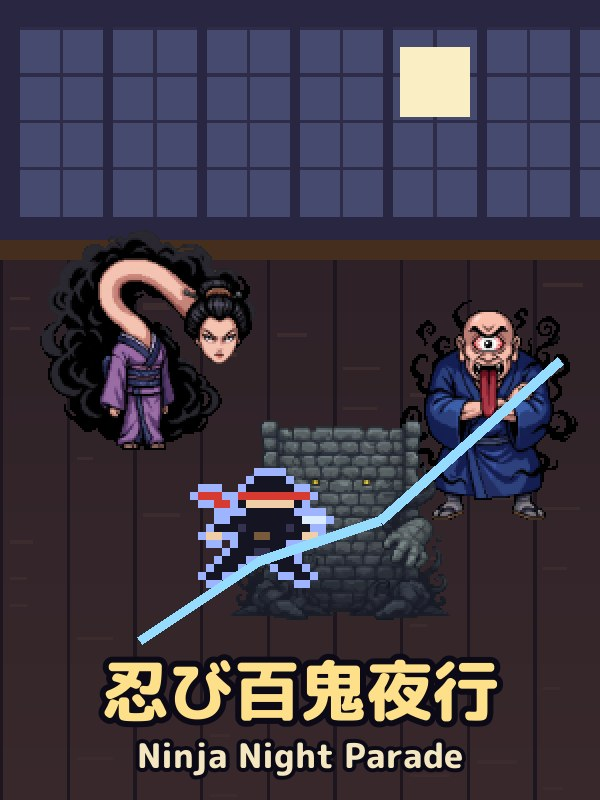
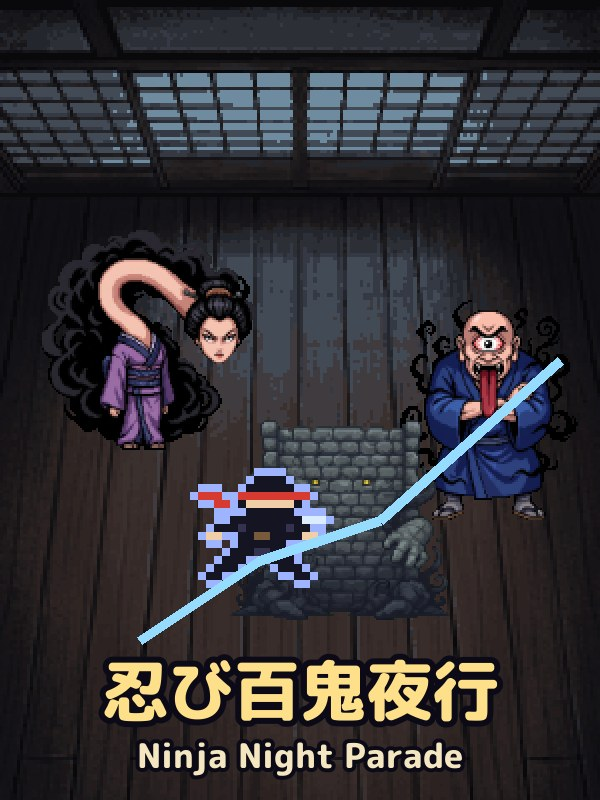
版7：武家屋敷の背景

diff --git a/src/scenes/PlayScene.js b/src/scenes/PlayScene.js
@@ -1,18 +1,18 @@
 // 遊ぶ画面（key 'play'・scene.start('play', {index})）
 // 押す＝忍者の場所から線を引き始める／動かす＝線を伸ばす（墨が切れたら先が赤く光って止まる）／離す＝resolveDash を1回だけ呼び、結果を絵にする
 // 線を引いている間は敵の時間が DRAW_SLOW 倍。指は1本だけ（線の途中の2本目は無視＝Review Focus 3）
-import { t } from '../i18n/i18n.js?v=6';
-import { textStyle, buttonStyle, GOLD } from '../ui/text.js?v=6';
-import { crisp } from '../ui/pixel.js?v=6';
-import { play as sfx } from '../ui/sfx.js?v=6';
-import { W, H, DASH_SPEED, HITSTOP, DRAW_SLOW } from '../config.js?v=6';
-import { startStroke, addPoint, isSwipe, pointAt } from '../core/path.js?v=6';
-import { resolveDash, foePos, starsFor } from '../core/dash.js?v=6';
-import { loadSave, writeSave, recordClear, learnKaton, markSeen, recordScore, totalBest } from '../core/save.js?v=6';
-import { killPoints, BOSS_HIT, BOSS_KILL, timeBonus, roomScore } from '../core/score.js?v=6';
-import { STAGES, katonFor } from '../data/stages.js?v=6';
-import { FOES, foeFlags, needsJutsu, badgeMarks } from '../data/foes.js?v=6';
-import { platformStore, sendScore } from '../platform.js?v=6';
+import { t } from '../i18n/i18n.js?v=7';
+import { textStyle, buttonStyle, GOLD } from '../ui/text.js?v=7';
+import { crisp } from '../ui/pixel.js?v=7';
+import { play as sfx } from '../ui/sfx.js?v=7';
+import { W, H, DASH_SPEED, HITSTOP, DRAW_SLOW } from '../config.js?v=7';
+import { startStroke, addPoint, isSwipe, pointAt } from '../core/path.js?v=7';
+import { resolveDash, foePos, starsFor } from '../core/dash.js?v=7';
+import { loadSave, writeSave, recordClear, learnKaton, markSeen, recordScore, totalBest } from '../core/save.js?v=7';
+import { killPoints, BOSS_HIT, BOSS_KILL, timeBonus, roomScore } from '../core/score.js?v=7';
+import { STAGES, katonFor } from '../data/stages.js?v=7';
+import { FOES, foeFlags, needsJutsu, badgeMarks } from '../data/foes.js?v=7';
+import { platformStore, sendScore } from '../platform.js?v=7';
 
 const LINE = 0x96dcff, RED = 0xe0503c;
 

diff --git a/src/main.js b/src/main.js
@@ -1,12 +1,12 @@
 // src/main.js — 言葉と記録を決めて Phaser を始める（相撲ゲームの main.js と同じ分かれ道・同意書と♪の札は無い）
-import { TitleScene } from './scenes/TitleScene.js?v=6';
-import { PlayScene } from './scenes/PlayScene.js?v=6';
-import { MapScene } from './scenes/MapScene.js?v=6';
-import { CollectionScene } from './scenes/CollectionScene.js?v=6';
-import { ClearScene } from './scenes/ClearScene.js?v=6';
-import { initLang, setLang } from './i18n/i18n.js?v=6';
-import { isPlayables, initPlatform, playablesLang, platformStore, onYtPause } from './platform.js?v=6';
-import { W, H } from './config.js?v=6';
+import { TitleScene } from './scenes/TitleScene.js?v=7';
+import { PlayScene } from './scenes/PlayScene.js?v=7';
+import { MapScene } from './scenes/MapScene.js?v=7';
+import { CollectionScene } from './scenes/CollectionScene.js?v=7';
+import { ClearScene } from './scenes/ClearScene.js?v=7';
+import { initLang, setLang } from './i18n/i18n.js?v=7';
+import { isPlayables, initPlatform, playablesLang, platformStore, onYtPause } from './platform.js?v=7';
+import { W, H } from './config.js?v=7';
 
 export const SCENES = [TitleScene, MapScene, PlayScene, CollectionScene, ClearScene];
 

diff --git a/src/scenes/ClearScene.js b/src/scenes/ClearScene.js
@@ -1,12 +1,12 @@
 // 武家屋敷のクリア（key 'clear'）：星の合計・点数の合計・「次の場所は作っている途中」（Playables の決まり＝続きが無いと分かる）
-import { t } from '../i18n/i18n.js?v=6';
-import { textStyle, buttonStyle, GOLD } from '../ui/text.js?v=6';
-import { crisp } from '../ui/pixel.js?v=6';
-import { W, H } from '../config.js?v=6';
-import { loadSave, clearSummary } from '../core/save.js?v=6';
-import { STAGES } from '../data/stages.js?v=6';
-import { platformStore } from '../platform.js?v=6';
-import { play as sfx } from '../ui/sfx.js?v=6';
+import { t } from '../i18n/i18n.js?v=7';
+import { textStyle, buttonStyle, GOLD } from '../ui/text.js?v=7';
+import { crisp } from '../ui/pixel.js?v=7';
+import { W, H } from '../config.js?v=7';
+import { loadSave, clearSummary } from '../core/save.js?v=7';
+import { STAGES } from '../data/stages.js?v=7';
+import { platformStore } from '../platform.js?v=7';
+import { play as sfx } from '../ui/sfx.js?v=7';
 
 export class ClearScene extends Phaser.Scene {
   constructor() { super('clear'); }

diff --git a/src/scenes/CollectionScene.js b/src/scenes/CollectionScene.js
@@ -1,12 +1,12 @@
 // 図鑑（key 'collection'）：2列×5段の札・押すと説明・まだ出会っていない物は「？」
-import { t } from '../i18n/i18n.js?v=6';
-import { textStyle, buttonStyle, GOLD } from '../ui/text.js?v=6';
-import { crisp } from '../ui/pixel.js?v=6';
-import { W, H } from '../config.js?v=6';
-import { loadSave } from '../core/save.js?v=6';
-import { COLLECTION, visible } from '../data/collection.js?v=6';
-import { FOES } from '../data/foes.js?v=6';
-import { platformStore } from '../platform.js?v=6';
+import { t } from '../i18n/i18n.js?v=7';
+import { textStyle, buttonStyle, GOLD } from '../ui/text.js?v=7';
+import { crisp } from '../ui/pixel.js?v=7';
+import { W, H } from '../config.js?v=7';
+import { loadSave } from '../core/save.js?v=7';
+import { COLLECTION, visible } from '../data/collection.js?v=7';
+import { FOES } from '../data/foes.js?v=7';
+import { platformStore } from '../platform.js?v=7';
 
 export class CollectionScene extends Phaser.Scene {
   constructor() { super('collection'); }

diff --git a/src/scenes/MapScene.js b/src/scenes/MapScene.js
@@ -1,11 +1,11 @@
 // 間を選ぶ（key 'map'）：武家屋敷の10の間を2列×5段・星・開いていない間は鍵・図鑑へ
-import { t } from '../i18n/i18n.js?v=6';
-import { textStyle, buttonStyle, GOLD } from '../ui/text.js?v=6';
-import { crisp } from '../ui/pixel.js?v=6';
-import { W } from '../config.js?v=6';
-import { loadSave, isOpen } from '../core/save.js?v=6';
-import { STAGES } from '../data/stages.js?v=6';
-import { platformStore } from '../platform.js?v=6';
+import { t } from '../i18n/i18n.js?v=7';
+import { textStyle, buttonStyle, GOLD } from '../ui/text.js?v=7';
+import { crisp } from '../ui/pixel.js?v=7';
+import { W } from '../config.js?v=7';
+import { loadSave, isOpen } from '../core/save.js?v=7';
+import { STAGES } from '../data/stages.js?v=7';
+import { platformStore } from '../platform.js?v=7';
 
 export class MapScene extends Phaser.Scene {
   constructor() { super('map'); }

diff --git a/src/core/dash.js b/src/core/dash.js
@@ -1,9 +1,9 @@
 // 駆け抜けの結果（画面から離した純粋な関数・tests/dash.test.js）
 // 指を離した時に1回だけ呼び、結果を画面が絵にする（一時停止で途中から戻っても同じ結果＝Review Focus 4）
 // 敵 foe = {id, x, y, move?: {dx, dy, period}, shield?: true, hp?: number}（shield と hp は呼ぶ側が敵の表から写して渡す）
-import { DASH_SPEED, HIT_R, TRAP_R } from '../config.js?v=6';
-import { pathLength, pointAt } from './path.js?v=6';
-import { findLoop, inside } from './jutsu.js?v=6';
+import { DASH_SPEED, HIT_R, TRAP_R } from '../config.js?v=7';
+import { pathLength, pointAt } from './path.js?v=7';
+import { findLoop, inside } from './jutsu.js?v=7';
 
 const SAMPLE = 10; // 線の上を何 px ごとに見るか
 

diff --git a/src/scenes/TitleScene.js b/src/scenes/TitleScene.js
@@ -1,8 +1,8 @@
 // 表紙：題・ひと言・「たたいて始める」。描いたら YouTube に firstFrameReady、たたける時に gameReady
-import { t } from '../i18n/i18n.js?v=6';
-import { textStyle, GOLD } from '../ui/text.js?v=6';
-import { W, H } from '../config.js?v=6';
-import { signalFirstFrame, signalGameReady } from '../platform.js?v=6';
+import { t } from '../i18n/i18n.js?v=7';
+import { textStyle, GOLD } from '../ui/text.js?v=7';
+import { W, H } from '../config.js?v=7';
+import { signalFirstFrame, signalGameReady } from '../platform.js?v=7';
 
 export class TitleScene extends Phaser.Scene {
   constructor() { super('title'); }

diff --git a/src/data/stages.js b/src/data/stages.js
@@ -2,7 +2,7 @@
 // 1〜5＝一の太刀／6＝火遁を覚える（ぬりかべの固まり）／7〜9＝混ぜ／10＝ボス化け猫（hp 3）
 // solution＝★3の答えの線（at＝指を離す時刻・秒）。tests/stages.test.js が答えを流して「★3で解ける」を確かめる
 // 動く敵は move（dx, dy, period）。答えは動く敵がいちばん端にいる時（sin＝1・動きがいちばん遅い所）に通す
-import { INK } from '../config.js?v=6';
+import { INK } from '../config.js?v=7';
 
 const P = (x, y) => ({ x, y });
 // 輪の線：下（cx, cy+r）から始めて1周（火遁）

diff --git a/src/core/path.js b/src/core/path.js
@@ -1,6 +1,6 @@
 // 線の計算（画面から離した純粋な関数・tests/path.test.js）
 // 線は忍者の今の場所から始まる。墨（ink）を使い切ったら、その所で止まり clipped=true（その後の指の動きは線にならない＝本人の決定）
-import { W, H, MIN_STROKE, STEP } from '../config.js?v=6';
+import { W, H, MIN_STROKE, STEP } from '../config.js?v=7';
 
 const dist = (a, b) => Math.hypot(b.x - a.x, b.y - a.y);
 

diff --git a/src/ui/sfx.js b/src/ui/sfx.js
@@ -1,5 +1,5 @@
 // 効果音（合成・音のファイルなし・小さめ）。Playables では YouTube の消音に従う
-import { isPlayables, ytAudioEnabled, onYtAudioChange } from '../platform.js?v=6';
+import { isPlayables, ytAudioEnabled, onYtAudioChange } from '../platform.js?v=7';
 
 let ac = null, muted = isPlayables() ? !ytAudioEnabled() : false;
 if (isPlayables()) onYtAudioChange((on) => { muted = !on; });

diff --git a/src/i18n/i18n.js b/src/i18n/i18n.js
@@ -1,6 +1,6 @@
 // 言葉の切り替えと文の引き方。画面の文字は全部ここを通す（英語が先・分からない言葉は英語）
-import ja from './ja.js?v=6';
-import en from './en.js?v=6';
+import ja from './ja.js?v=7';
+import en from './en.js?v=7';
 
 export const TABLES = { ja, en };
 export const LANGS = ['en', 'ja'];

diff --git a/index.html b/index.html
@@ -17,6 +17,6 @@
 <body>
 <div id="game"></div>
 <script src="vendor/phaser.min.js"></script>
-<script type="module" src="src/main.js?v=6"></script>
+<script type="module" src="src/main.js?v=7"></script>
 </body>
 </html>
